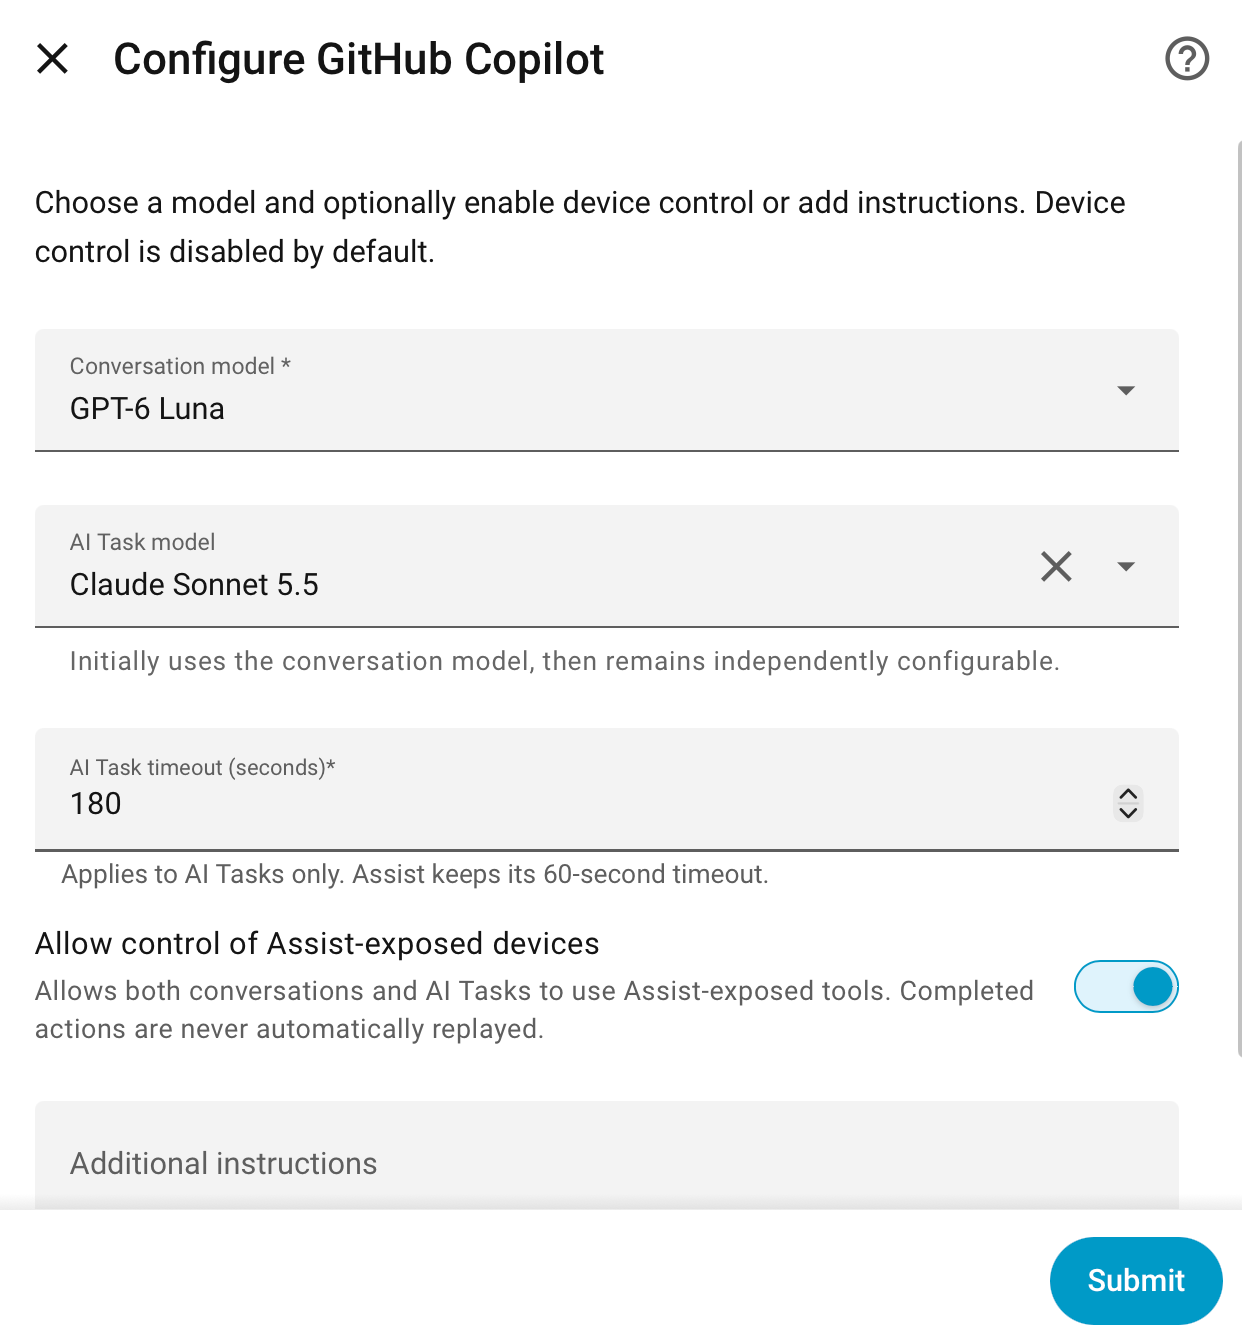
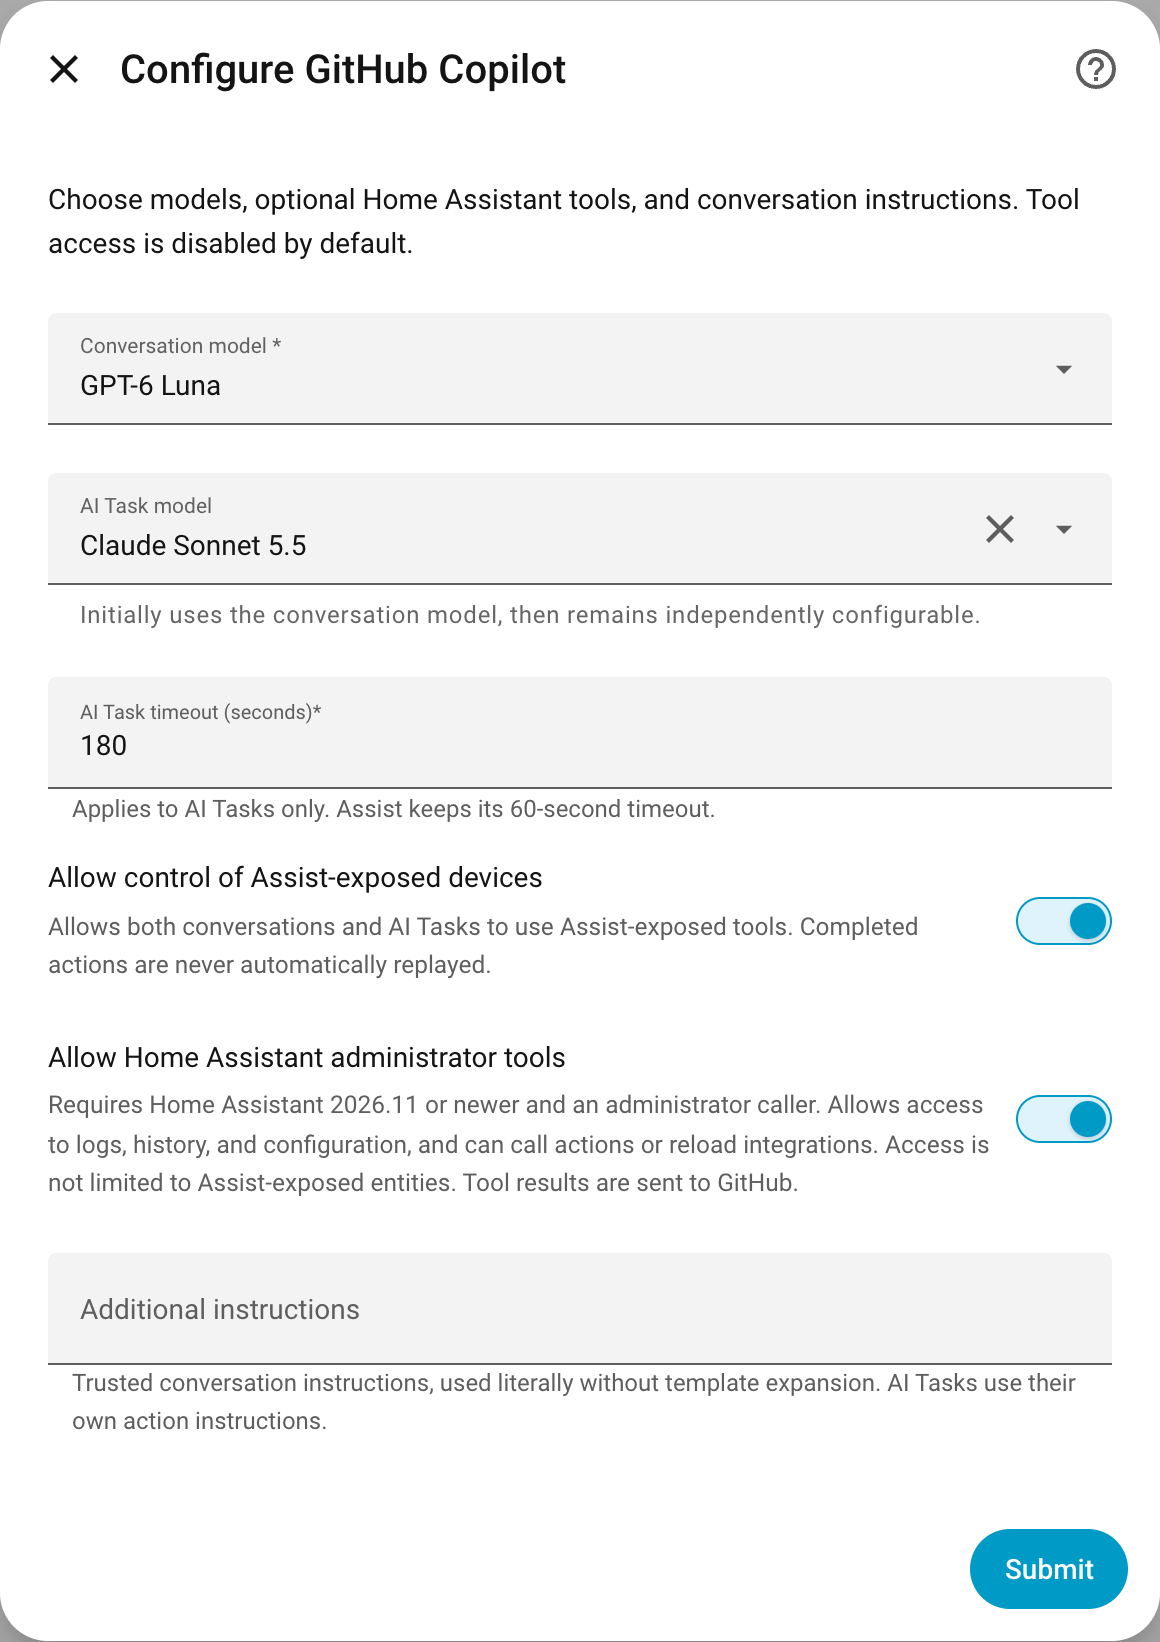
Update setup screenshot for administrator tools

diff --git a/docs/setup.md b/docs/setup.md
@@ -103,12 +103,11 @@ Keep tokens private and out of screenshots, issue reports, and chat messages.
 After authentication, the **Configure GitHub Copilot** dialog lets you choose
 how the conversation agent and AI Task entity behave.
 
-![The configuration dialog with separate Conversation model and AI Task model selectors, a 180-second AI Task timeout, the device-control toggle, and Additional instructions.](images/setup/configure-integration.png)
+![The configuration dialog with separate model selectors, a 180-second AI Task timeout, both device-control and administrator-tools switches enabled, and empty Additional instructions.](images/setup/configure-integration.png)
 
 The selected models are examples; availability depends on your account. The
-screenshot shows device control enabled, but it is **off by default**. It
-predates the separate administrator-tools option available on Home Assistant
-2026.11 and newer.
+screenshot shows device control and administrator tools enabled, but both are
+**off by default**. Administrator tools require Home Assistant 2026.11 or newer.
 
 | Setting | What to choose |
 | --- | --- |
